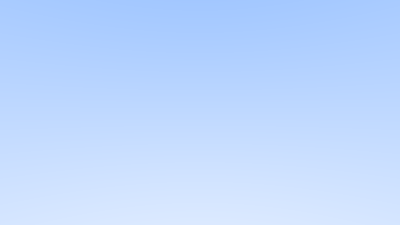
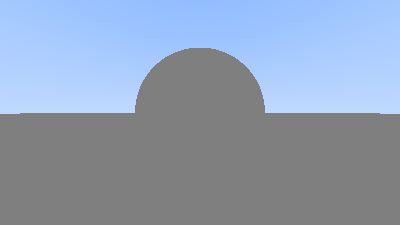
"Added world, but colors dont work rn"

diff --git a/main.py b/main.py
@@ -6,10 +6,18 @@
 import numpy as np
 import matplotlib.pyplot as plt
 from colors import red, green, blue
+import math
 from color import Color
 from environment_variables import *
+from hittable import HitRecord
+from hittable_list import HittableList
+from sphere import Sphere
 
-def ray_color(ray: Ray3):
+def ray_color(ray: Ray3, world: HittableList):
+    hit_record: HitRecord = HitRecord()
+    if world.hit(ray, 0, math.inf, hit_record):
+        return (hit_record.normal + Color(1, 1, 1)) / 2
+    
     unit_direction: Vector3 = unit_vector(ray.direction)
     a: float = (unit_direction._y + 1) / 2
     color: Color = (Color(1, 1, 1) * (1 - a)) + (Color(0.5, 0.7, 1.0) * a)
@@ -22,11 +30,17 @@ IMAGE_WIDTH: int = 400  # Width of image
 # Calculate the image height, and ensure that it's at least 1.
 IMAGE_HEIGHT: int = int(IMAGE_WIDTH // ASPECT_RATIO)
 IMAGE_HEIGHT = 1 if IMAGE_HEIGHT < 1 else IMAGE_HEIGHT
+
 # Camera
 FOCAL_LENGTH: float = 1.0
 VIEWPORT_HEIGHT: float = 2.0
 VIEWPORT_WIDTH: float = VIEWPORT_HEIGHT * (IMAGE_WIDTH / IMAGE_HEIGHT)
 CAMERA_CENTER: Point3 = Point3(0, 0, 0)
+
+# World
+world: HittableList = HittableList()
+world.add(Sphere(Point3(0, 0, -1), 0.5))
+world.add(Sphere(Point3(0, -100, -1), 100))
 
 # Calculate the vectors across the horizontal and down the vertical viewport edges.
 VIEWPORT_U = Vector3(VIEWPORT_WIDTH, 0, 0)
@@ -69,7 +83,7 @@ for j in range(IMAGE_HEIGHT):  # For each row
         ray_to_pixel: Ray3 = Ray3(CAMERA_CENTER, ray_direction)
         
         # Gets pixel colors based on pixel's (x, y) values
-        pixel_color = ray_color(ray_to_pixel)
+        pixel_color = ray_color(ray_to_pixel, world)
         
         # Sets pixel color to 'pixel_color'
         image[j, i] = np.clip(pixel_color.to_list(), 0, 1)

diff --git a/sphere.py b/sphere.py
@@ -1,0 +1,38 @@
+"""
+    Sphere Class
+    @author Lehrman, Aidin
+"""
+
+import math
+from hittable import Hittable, HitRecord
+from environment_variables import Vector3, Point3, Ray3, dot
+
+class Sphere(Hittable):
+    def __init__(self, position: Point3, radius: float) -> None:
+        self.position: Point3 = position
+        self.radius: float = radius
+
+    def hit(self, ray: Ray3, rayt_min: float, rayt_max: float, record: HitRecord) -> bool:
+        oc: Point3 = ray.origin - self.position
+        a: float = ray.direction.length_squared()
+        half_b: float = dot(oc, ray.direction)
+        c = oc.length_squared() - (self.radius ** 2)
+        
+        discriminant: float = (half_b ** 2) - (a * c)
+        if discriminant < 0:
+            return False
+        sqrt_discriminant: float = math.sqrt(discriminant)
+        
+        # Find nearest root that lies in the acceptable range
+        root: float = (-half_b - sqrt_discriminant) / a
+        if (root <= rayt_min) or (rayt_max <= root):
+            root = (-half_b + sqrt_discriminant) / a
+            if (root <= rayt_min ) or (rayt_max <= root):
+                return False
+            
+        record.t = root
+        record.point = ray.point_at(record.t)
+        outward_normal: Vector3 = (record.point - self.position) / self.radius
+        record.set_face_normal(ray, outward_normal)
+        
+        return True

diff --git a/hittable.py b/hittable.py
@@ -8,17 +8,21 @@ from environment_variables import *
 from color import Color
 
 class HitRecord:
-    def __init__(self, point: Point3, normal: Vector3, t: float) -> None:
-        self.point: Point3 = point
-        self.normal: Vector3 = normal
-        self.t: float = t
+    def __init__(self) -> None:
+        self.point: Point3 = Point3(0, 0, 0)
+        self.normal: Vector3 = Vector3(0, 0, 0)
+        self.t: float = 0
+        self.front_face: bool = False
+        
+    def set_face_normal(self, ray: Ray3, outward_normal: Vector3) -> None:
+        self.front_face = dot(ray.direction, outward_normal) < 0
+        self.normal: Vector3 = outward_normal if self.front_face else -outward_normal
 
 class Hittable(ABC):
     @abstractmethod
-    def __init__(self, position: Point3, color: Color, ) -> None:
-        self.position: Point3 = position
-        self.color: Color = color
+    def __init__(self) -> None:
+        pass
         
     @abstractmethod
     def hit(ray: Ray3, rayt_min: float, rayt_max: float, record: HitRecord) -> bool:
-        return True
+        return False

diff --git a/hittable_list.py b/hittable_list.py
@@ -1,0 +1,30 @@
+"""
+    Hittable List Class
+    @author Lehrman, Aidin
+"""
+
+from hittable import Hittable, HitRecord
+from environment_variables import Vector3, Point3, Ray3
+
+class HittableList(Hittable):
+    def __init__(self) -> None:
+        self.objects: list = []
+
+    def clear(self) -> None:
+        self.objects.clear()
+
+    def add(self, object: Hittable) -> None:
+        self.objects.append(object)
+
+    def hit(self, ray: Ray3, rayt_min: float, rayt_max: float, record: HitRecord) -> bool:
+        temp_record: HitRecord = HitRecord()
+        hit_anything: bool = False
+        closest_so_far: float = rayt_max
+
+        for object in self.objects:
+            if object.hit(ray, rayt_min, closest_so_far, temp_record):
+                hit_anything = True
+                closest_so_far = temp_record.t
+                record = temp_record
+
+        return hit_anything

diff --git a/environment_variables.py b/environment_variables.py
@@ -4,6 +4,7 @@
 """
 
 from __future__ import annotations
+from random import random, uniform
 from typing import Union
 import math
 
@@ -253,6 +254,11 @@ def unit_vector(vector: Vector3) -> Vector3:
         raise TypeError
     return vector / vector.length()
 
+def random_vector3() -> Vector3:
+    return Vector3(random(), random(), random())
+
+def random_vector3(min: float, max: float) -> Vector3:
+    return Vector3(uniform(min, max), uniform(min, max), uniform(min, max))
 
 class Ray3:
     """ Ray3 is made up of two parts; a point in 3D space, and a vector in a direction
